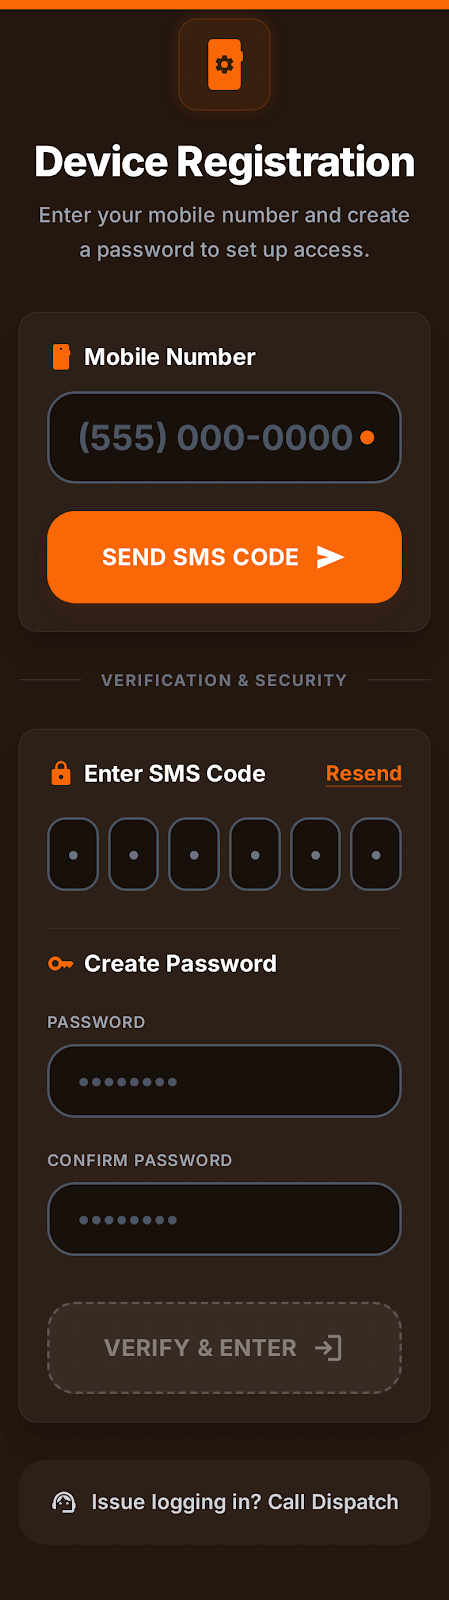
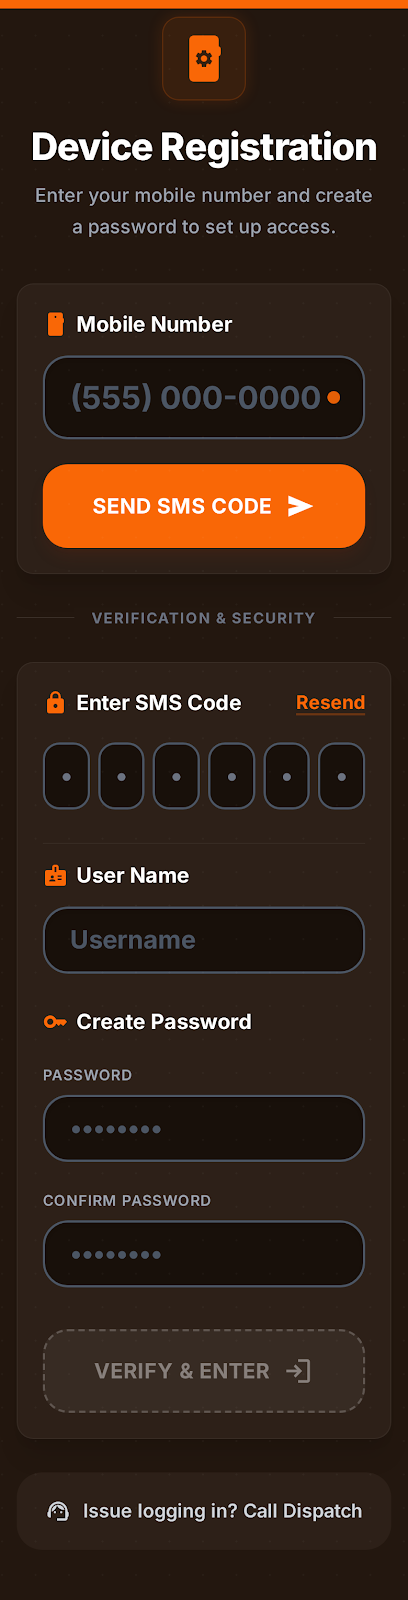
feat: Add a user name input field to the registration form.

Changed region(s): [[0.0588, 0.0, 0.9412, 0.875], [0.2059, 0.9375, 0.8824, 0.9688], [0.1176, 0.9062, 0.1765, 0.9688]]

diff --git a/designs/registration_(sms_verify_only)/code.html b/designs/registration_(sms_verify_only)/code.html
@@ -41,6 +41,11 @@
       min-height: max(884px, 100dvh);
     }
   </style>
+<style>
+    body {
+      min-height: max(884px, 100dvh);
+    }
+  </style>
   </head>
 <body class="bg-background-light dark:bg-background-dark font-display min-h-screen flex flex-col items-center justify-center p-4 selection:bg-primary selection:text-white">
 <main class="w-full max-w-[480px] flex flex-col gap-6">
@@ -98,6 +103,13 @@
 </div>
 </div>
 <div class="flex flex-col gap-6 pt-2 border-t border-gray-100 dark:border-white/5">
+<label class="block space-y-4">
+<span class="text-gray-900 dark:text-white text-xl font-bold flex items-center gap-2 mt-2">
+<span class="material-symbols-outlined text-primary">badge</span>
+                User Name
+            </span>
+<input class="block w-full h-16 px-6 bg-gray-50 dark:bg-input-dark border-2 border-gray-300 dark:border-gray-600 rounded-xl text-gray-900 dark:text-white text-2xl font-bold placeholder-gray-400 dark:placeholder-gray-600 focus:border-primary focus:ring-0 focus:outline-none transition-all shadow-inner" placeholder="Username" type="text"/>
+</label>
 <h3 class="text-gray-900 dark:text-white text-xl font-bold flex items-center gap-2 mt-2">
 <span class="material-symbols-outlined text-primary">key</span>
                 Create Password
@@ -126,5 +138,4 @@
 <div class="fixed top-0 left-0 w-full h-2 bg-primary z-50"></div>
 <div class="fixed bottom-0 left-0 w-full h-full pointer-events-none opacity-[0.03] z-0" data-alt="Abstract dotted industrial pattern overlay" style="background-image: radial-gradient(circle at 2px 2px, white 1px, transparent 0); background-size: 32px 32px;">
 </div>
-
 </body></html>
